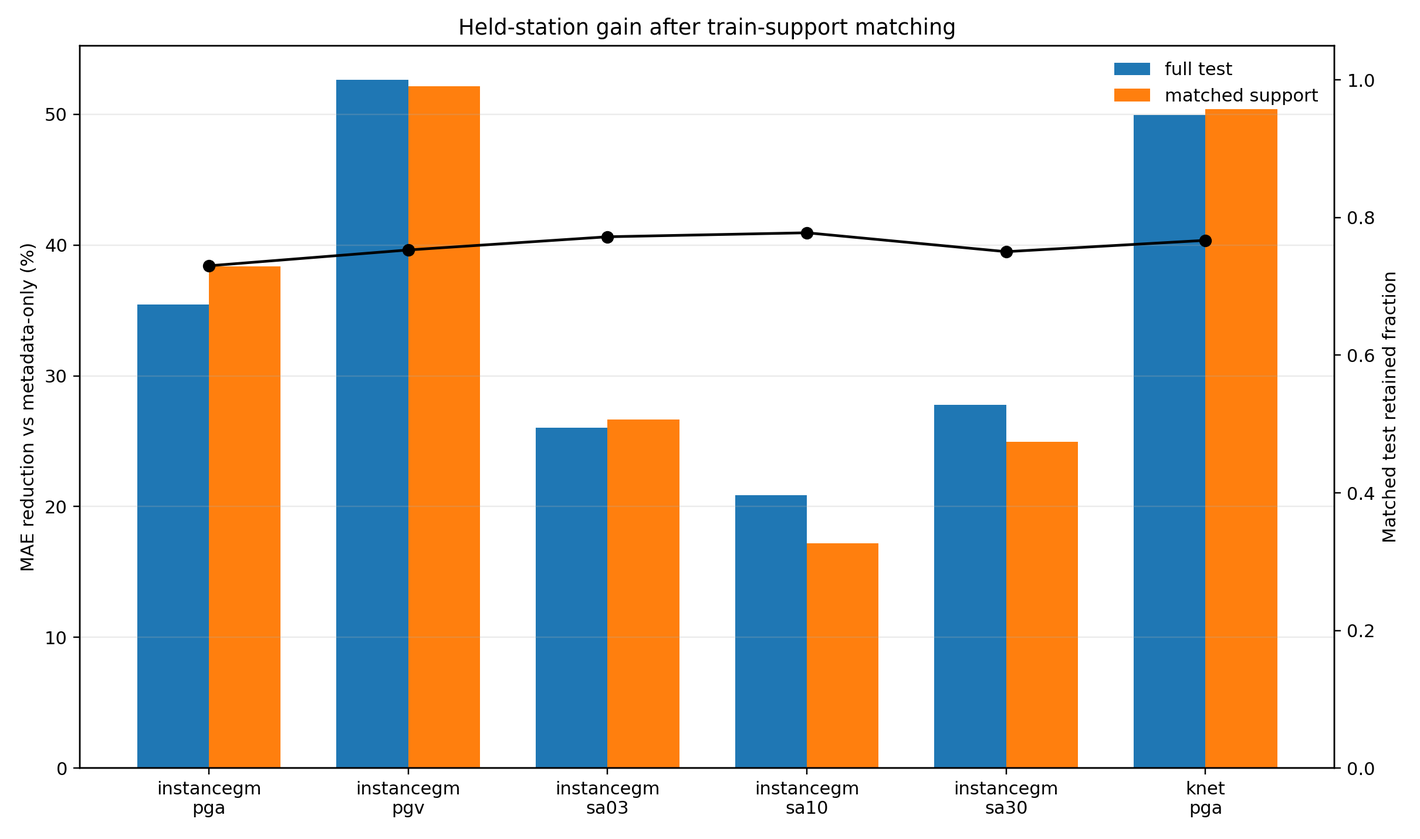
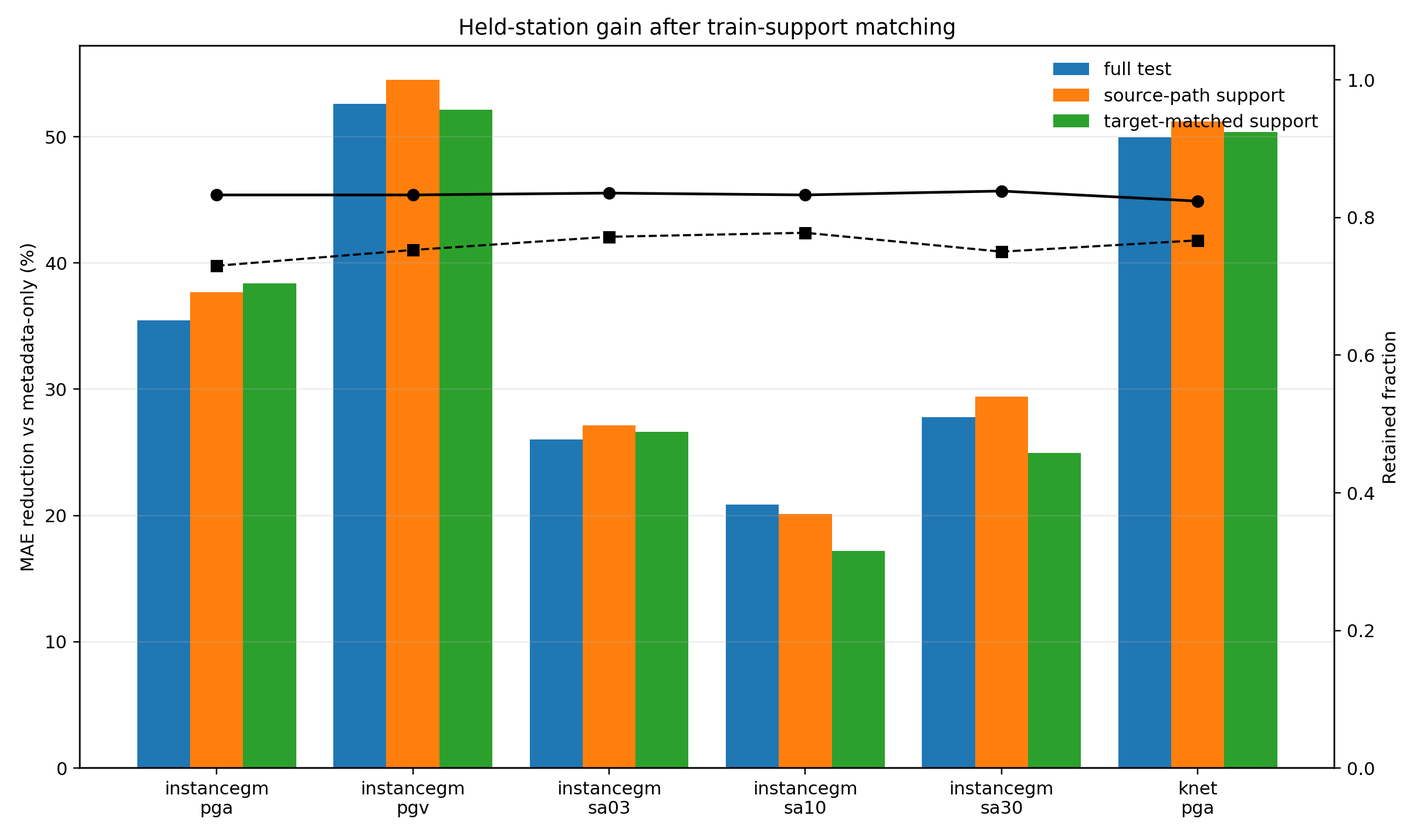
Add source-path support audit

diff --git a/work/scripts/audit_matched_station_gain.py b/work/scripts/audit_matched_station_gain.py
@@ -35,8 +35,14 @@ def write_csv(path: Path, rows: list[dict[str, Any]]) -> None:
         writer.writerows(rows)
 
 
-def support_mask(train: pd.DataFrame, test: pd.DataFrame, target: str) -> tuple[pd.Series, dict[str, float]]:
-    cols = [c for c in MATCH_COLUMNS + [f"target_log10_{target}"] if c in train.columns and c in test.columns]
+def support_mask(
+    train: pd.DataFrame,
+    test: pd.DataFrame,
+    target: str,
+    include_target: bool,
+) -> tuple[pd.Series, dict[str, float]]:
+    cols = MATCH_COLUMNS + ([f"target_log10_{target}"] if include_target else [])
+    cols = [c for c in cols if c in train.columns and c in test.columns]
     mask = pd.Series(True, index=test.index)
     bounds: dict[str, float] = {}
     for col in cols:
@@ -71,12 +77,14 @@ def collect_rows(args: argparse.Namespace) -> list[dict[str, Any]]:
             target_col = f"target_log10_{target}"
             if target_col not in train.columns or train[target_col].notna().sum() == 0 or test[target_col].notna().sum() == 0:
                 continue
-            mask, bounds = support_mask(train, test, target)
+            path_mask, path_bounds = support_mask(train, test, target, include_target=False)
+            target_mask, target_bounds = support_mask(train, test, target, include_target=True)
             scopes = {
-                "full_test": test,
-                "matched_train_support": test.loc[mask].copy(),
+                "full_test": (test, {}),
+                "source_path_support": (test.loc[path_mask].copy(), path_bounds),
+                "matched_train_support": (test.loc[target_mask].copy(), target_bounds),
             }
-            for scope, scoped_test in scopes.items():
+            for scope, (scoped_test, bounds) in scopes.items():
                 for feature_set in FEATURE_SETS:
                     result = train_eval(
                         train,
@@ -121,9 +129,15 @@ def summary_rows(metrics: pd.DataFrame) -> pd.DataFrame:
 
 
 def write_markdown(summary: pd.DataFrame, path: Path, figure_path: Path, csv_path: Path) -> None:
+    path_support = summary[summary["scope"] == "source_path_support"].copy()
     matched = summary[summary["scope"] == "matched_train_support"].copy()
     full = summary[summary["scope"] == "full_test"].copy()
-    merged = matched.merge(
+    merged_path = path_support.merge(
+        full[["dataset", "target", "mae_reduction_pct"]].rename(columns={"mae_reduction_pct": "full_reduction_pct"}),
+        on=["dataset", "target"],
+        how="left",
+    )
+    merged_matched = matched.merge(
         full[["dataset", "target", "mae_reduction_pct"]].rename(columns={"mae_reduction_pct": "full_reduction_pct"}),
         on=["dataset", "target"],
         how="left",
@@ -135,29 +149,45 @@ def write_markdown(summary: pd.DataFrame, path: Path, figure_path: Path, csv_pat
         "",
         "## 定位",
         "",
-        "这个自动审计只回答一个问题：把 held-station 测试样本裁到训练集震级、距离和目标幅值的 5-95% 覆盖范围内以后，早窗波形增益是否仍然存在。",
+        "这个自动审计回答两个问题：只把 held-station 测试样本裁到训练集震级和距离的 5-95% 覆盖范围内以后，早窗波形增益是否仍然存在；再加入目标幅值裁剪以后结果是否一致。",
         "",
-        "裁剪使用目标幅值，因此它是事后分布伪影审计，不是可部署预警模型评估。",
+        "`source_path_support` 不使用目标幅值。`matched_train_support` 使用目标幅值，因此后者是事后分布伪影审计，不是可部署预警模型评估。",
         "",
-        "## 结果",
+        "## Source-path support 结果",
         "",
-        "| 数据集 | 目标 | matched 保留比例 | full reduction % | matched reduction % | matched rows |",
+        "| 数据集 | 目标 | 保留比例 | full reduction % | source-path reduction % | rows |",
         "|---|---|---:|---:|---:|---:|",
     ]
-    for row in merged.to_dict("records"):
+    for row in merged_path.to_dict("records"):
         lines.append(
             f"| {row['dataset']} | {row['target']} | {row['retained_fraction']:.3f} | "
             f"{row['full_reduction_pct']:.1f} | {row['mae_reduction_pct']:.1f} | {int(row['test_rows_scope'])} |"
         )
+    lines += [
+        "",
+        "## Target-matched 结果",
+        "",
+        "| 数据集 | 目标 | 保留比例 | full reduction % | target-matched reduction % | rows |",
+        "|---|---|---:|---:|---:|---:|",
+    ]
+    for row in merged_matched.to_dict("records"):
+        lines.append(
+            f"| {row['dataset']} | {row['target']} | {row['retained_fraction']:.3f} | "
+            f"{row['full_reduction_pct']:.1f} | {row['mae_reduction_pct']:.1f} | {int(row['test_rows_scope'])} |"
+        )
+    path_min_gain = float(path_support["mae_reduction_pct"].min())
+    path_min_retained = float(path_support["retained_fraction"].min())
     min_gain = float(matched["mae_reduction_pct"].min())
     min_retained = float(matched["retained_fraction"].min())
     lines += [
         "",
         "## 解释",
         "",
-        f"所有 matched 子集仍为正增益，最小 matched MAE 降幅为 {min_gain:.1f}%。最小保留比例为 {min_retained:.3f}。",
+        f"只按震级和距离裁剪时，所有子集仍为正增益，最小 MAE 降幅为 {path_min_gain:.1f}%。最小保留比例为 {path_min_retained:.3f}。",
         "",
-        "这个结果降低了“增益只来自 held-station 测试集分布异常”的风险。正文仍应保守表述为 source-path-target shift 下的稳健性证据，不能写成完全 distribution-matched transfer。",
+        f"加入目标幅值裁剪后，所有 matched 子集仍为正增益，最小 matched MAE 降幅为 {min_gain:.1f}%。最小保留比例为 {min_retained:.3f}。",
+        "",
+        "这个结果降低了“增益只来自 held-station 测试集分布异常”的风险。正文仍应保守表述为 source-path shift 下的稳健性证据，不能写成完全 distribution-matched transfer。",
         "",
         f"CSV：`{csv_path}`",
         f"图：`{figure_path}`",
@@ -169,14 +199,16 @@ def write_markdown(summary: pd.DataFrame, path: Path, figure_path: Path, csv_pat
 
 def plot_summary(summary: pd.DataFrame, path: Path) -> None:
     full = summary[summary["scope"] == "full_test"].set_index(["dataset", "target"])
+    path_support = summary[summary["scope"] == "source_path_support"].set_index(["dataset", "target"])
     matched = summary[summary["scope"] == "matched_train_support"].set_index(["dataset", "target"])
     keys = list(matched.index)
     labels = [f"{ds}\n{target}" for ds, target in keys]
     x = np.arange(len(keys))
-    width = 0.36
+    width = 0.27
     fig, ax1 = plt.subplots(figsize=(11, 6.5))
-    ax1.bar(x - width / 2, [full.loc[k, "mae_reduction_pct"] for k in keys], width, label="full test")
-    ax1.bar(x + width / 2, [matched.loc[k, "mae_reduction_pct"] for k in keys], width, label="matched support")
+    ax1.bar(x - width, [full.loc[k, "mae_reduction_pct"] for k in keys], width, label="full test")
+    ax1.bar(x, [path_support.loc[k, "mae_reduction_pct"] for k in keys], width, label="source-path support")
+    ax1.bar(x + width, [matched.loc[k, "mae_reduction_pct"] for k in keys], width, label="target-matched support")
     ax1.axhline(0, color="black", linewidth=0.8)
     ax1.set_ylabel("MAE reduction vs metadata-only (%)")
     ax1.set_xticks(x)
@@ -186,8 +218,9 @@ def plot_summary(summary: pd.DataFrame, path: Path) -> None:
     ax1.legend(loc="upper right", frameon=False)
 
     ax2 = ax1.twinx()
-    ax2.plot(x, [matched.loc[k, "retained_fraction"] for k in keys], color="black", marker="o", linewidth=1.5)
-    ax2.set_ylabel("Matched test retained fraction")
+    ax2.plot(x, [path_support.loc[k, "retained_fraction"] for k in keys], color="black", marker="o", linewidth=1.5)
+    ax2.plot(x, [matched.loc[k, "retained_fraction"] for k in keys], color="black", marker="s", linewidth=1.2, linestyle="--")
+    ax2.set_ylabel("Retained fraction")
     ax2.set_ylim(0, 1.05)
     fig.tight_layout()
     path.parent.mkdir(parents=True, exist_ok=True)

diff --git a/work/scripts/verify_nc_evidence_package.py b/work/scripts/verify_nc_evidence_package.py
@@ -116,6 +116,7 @@ def main() -> None:
         "group leakage",
         "distribution artifacts",
         "matched-support audit",
+        "source-path support",
         "sampling stability",
         "attenuation-shaped",
         "fully specified regional GMM",
@@ -296,7 +297,11 @@ def main() -> None:
     matched_im = Image.open(matched_figure)
     check(matched_im.width >= 1000 and matched_im.height >= 700, f"matched held-station gain audit figure opens ({matched_im.width}x{matched_im.height})", rows)
     matched = pd.read_csv(matched_compact_path)
+    source_path_scope = matched[matched["scope"] == "source_path_support"]
     matched_scope = matched[matched["scope"] == "matched_train_support"]
+    check(len(source_path_scope) == 6, "matched held-station gain audit has 6 source-path support target rows", rows)
+    check(source_path_scope["retained_fraction"].min() >= 0.80, "source-path support audit retains at least 80% of test rows for every target", rows)
+    check((source_path_scope["mae_reduction_pct"] > 0).all(), "source-path support audit keeps positive early-waveform gains for every target", rows)
     check(len(matched_scope) == 6, "matched held-station gain audit has 6 matched target rows", rows)
     check(matched_scope["retained_fraction"].min() >= 0.70, "matched held-station gain audit retains at least 70% of test rows for every target", rows)
     check((matched_scope["mae_reduction_pct"] > 0).all(), "matched held-station gain audit keeps positive early-waveform gains for every target", rows)

diff --git a/outputs/methods_provenance_table.md b/outputs/methods_provenance_table.md
@@ -15,7 +15,7 @@ This table records the reproducibility contract for the current NC evidence pack
 | Held-out evaluation | `work/scripts/run_ground_motion_heldout_baseline.py`; `work/scripts/plot_heldout_generalization_figure.py` | `work/ground_motion_heldout_10s`; `work/ground_motion_balanced_station_10s` | `outputs/figures/figure3_heldout_generalization.png`; `outputs/figure3_heldout_generalization.csv` | Held-event and held-station groups have zero train/test overlap; balanced held-station holds 50 stations per strong-motion dataset |
 | Held-station window scan | `work/scripts/run_ground_motion_heldout_baseline.py`; `work/scripts/summarize_held_station_window_scan.py` | `work/ground_motion_balanced_station_1s`; `work/ground_motion_balanced_station_2s`; `work/ground_motion_balanced_station_3s`; `work/ground_motion_balanced_station_5s`; `work/ground_motion_balanced_station_10s` | `outputs/held_station_window_scan_summary.md`; `outputs/figures/ground_motion_audit/held_station_window_scan.png`; `work/held_station_window_scan.csv` | Balanced held-station 1/2/3/5/10 s scan; current feature groups are metadata-only, early-waveform-only, and metadata plus early waveform |
 | Distribution audit | `work/ground_motion_balanced_station_10s/balanced_station_distribution_audit.csv` | Balanced held-station train/test feature tables | `outputs/figures/ground_motion_audit/balanced_station_distribution_audit_panel.png`; `outputs/balanced_station_distribution_audit_summary.md` | InstanceGM station-held test is farther and weaker; K-NET distance and PGA overlap are high |
-| Matched held-station gain audit | `work/scripts/audit_matched_station_gain.py` | Balanced held-station train/test feature tables | `work/ground_motion_balanced_station_10s/matched_station_gain_audit.csv`; `outputs/matched_station_gain_audit_summary.md`; `outputs/figures/ground_motion_audit/matched_station_gain_audit.png` | Post-hoc support-matching audit trims test rows to train 5-95% ranges for magnitude, distance, and target amplitude; all matched subsets retain positive early-waveform gains; audit only, not deployable model evaluation |
+| Matched held-station gain audit | `work/scripts/audit_matched_station_gain.py` | Balanced held-station train/test feature tables | `work/ground_motion_balanced_station_10s/matched_station_gain_audit.csv`; `outputs/matched_station_gain_audit_summary.md`; `outputs/figures/ground_motion_audit/matched_station_gain_audit.png` | Source-path support trims test rows to train 5-95% ranges for magnitude and distance only; target-matched support adds target amplitude as a post-hoc audit; all retained subsets keep positive early-waveform gains |
 | Held-station bootstrap CI audit | `work/scripts/audit_held_station_bootstrap_ci.py` | Balanced held-station train/test feature tables | `work/ground_motion_balanced_station_10s/held_station_bootstrap_ci.csv`; `outputs/held_station_bootstrap_ci_summary.md`; `outputs/figures/ground_motion_audit/held_station_bootstrap_ci.png` | Paired bootstrap over held-station test records quantifies sampling stability of metadata-only versus metadata plus early-waveform MAE reductions; audit only, not prospective validation |
 | Attenuation-shaped reference | `work/scripts/run_attenuation_reference.py` | Balanced held-station feature tables | `work/ground_motion_balanced_station_10s/attenuation_reference.csv`; `outputs/attenuation_reference_summary.md` | Ridge model with magnitude, log10 hypocentral-distance shape, depth, and log10 Vs30 where available; K-NET has no Vs30 in this split; baseline check only |
 | Regional GMM readiness audit | `work/scripts/audit_regional_gmm_readiness.py` | Balanced held-station features; InstanceGM SeisBench metadata; K-NET approved local package | `outputs/regional_gmm_readiness_audit.csv`; `outputs/regional_gmm_readiness_audit.md` | InstanceGM has complete Vs30 but sparse mechanism coverage; K-NET lacks Vs30, rupture distance, and focal-mechanism fields in current approved data |

diff --git a/outputs/nc_evidence_packet_zh.md b/outputs/nc_evidence_packet_zh.md
@@ -100,18 +100,18 @@ K-NET pre-peak 子集审计已生成：`outputs/knet_prepeak_subset_audit.md`。
 
 ### 3c. Matched held-station 增益审计
 
-已补一个全自动事后审计：`outputs/matched_station_gain_audit_summary.md`。它把 held-station 测试样本裁到训练集震级、距离和目标幅值的 5-95% 覆盖范围内，再重新评估 metadata-only 与 metadata + 早窗波形。
+已补一个全自动支持范围审计：`outputs/matched_station_gain_audit_summary.md`。它先把 held-station 测试样本裁到训练集震级和距离的 5-95% 覆盖范围内，不使用目标幅值；然后再做一个加入目标幅值的 target-matched 事后检查。
 
-| 数据集 | 目标 | matched 保留比例 | full 降幅 | matched 降幅 |
-|---|---|---:|---:|---:|
-| InstanceGM | PGA | 0.730 | 35.5% | 38.4% |
-| InstanceGM | PGV | 0.753 | 52.6% | 52.1% |
-| InstanceGM | SA03 | 0.772 | 26.0% | 26.6% |
-| InstanceGM | SA10 | 0.778 | 20.9% | 17.2% |
-| InstanceGM | SA30 | 0.751 | 27.8% | 24.9% |
-| K-NET | PGA | 0.767 | 49.9% | 50.4% |
+| 数据集 | 目标 | source-path 保留比例 | full 降幅 | source-path 降幅 | target-matched 降幅 |
+|---|---|---:|---:|---:|---:|
+| InstanceGM | PGA | 0.833 | 35.5% | 37.7% | 38.4% |
+| InstanceGM | PGV | 0.833 | 52.6% | 54.5% | 52.1% |
+| InstanceGM | SA03 | 0.836 | 26.0% | 27.2% | 26.6% |
+| InstanceGM | SA10 | 0.833 | 20.9% | 20.1% | 17.2% |
+| InstanceGM | SA30 | 0.839 | 27.8% | 29.4% | 24.9% |
+| K-NET | PGA | 0.824 | 49.9% | 51.2% | 50.4% |
 
-解释：所有 matched 子集仍为正增益，最小 matched 降幅为 17.2%。这个结果降低了“增益只来自 held-station 测试集分布异常”的风险。因为裁剪使用目标幅值，它只能作为分布伪影审计，不能当成可部署预警模型评估。
+解释：只按震级和距离裁剪时，所有子集仍为正增益，最小降幅为 20.1%，最小保留比例为 0.824。加入目标幅值裁剪后仍全部为正，但它只能作为分布伪影审计，不能当成可部署预警模型评估。
 
 支撑图：`outputs/figures/ground_motion_audit/matched_station_gain_audit.png`
 CSV：`work/ground_motion_balanced_station_10s/matched_station_gain_audit.csv`
@@ -468,7 +468,7 @@ ESM held-out baseline：`outputs/esm_heldout_baseline_summary.md`。
 
 如果加入完整区域 GMM 对照或更强物理残差解释：**73-78%**。
 
-现在可以诚实说站上 70%。原因是 ESM 提供了欧洲强震动外部测试域，四域 transfer 给出清晰退化边界，ESM P-onset sensitivity 和 waveform-onset spot audit 已经把主要相位风险量化，matched held-station 审计降低了分布伪影解释，bootstrap CI 审计降低了抽样偶然性解释。限制仍然明确：ESM 还不是人工 P pick，当前还没有完整区域 GMM 对照。
+现在可以诚实说站上 70%。原因是 ESM 提供了欧洲强震动外部测试域，四域 transfer 给出清晰退化边界，ESM P-onset sensitivity 和 waveform-onset spot audit 已经把主要相位风险量化，source-path support 审计降低了分布伪影解释，bootstrap CI 审计降低了抽样偶然性解释。限制仍然明确：ESM 还不是人工 P pick，当前还没有完整区域 GMM 对照。
 
 ## 下一步
 

diff --git a/outputs/nc_reviewer_risk_matrix.md b/outputs/nc_reviewer_risk_matrix.md
@@ -8,7 +8,7 @@ This matrix maps likely reviewer objections to current evidence and claim limits
 |---|---|---|---|
 | The 10 s window may already contain target-scale shaking. | `outputs/early_window_peak_capture_audit.md`; `outputs/knet_prepeak_subset_audit.md` | Present 10 s as early strong-motion information; use 1 s, 3 s, and K-NET pre-peak subsets for lead-time-sensitive wording. | Do not write 10 s K-NET as strict lead-time evidence. |
 | Random splits or group leakage may drive the gain. | `outputs/figure3_heldout_generalization.csv`; verifier checks zero event/station group overlap. | Lead with held-event and balanced held-station results after random-split results. | Do not rely on random split alone. |
-| Station-held tests may be distribution artifacts. | `outputs/balanced_station_distribution_audit_summary.md`; `outputs/matched_station_gain_audit_summary.md`; Figure 3 distribution panel. | Report InstanceGM station-held shift toward farther and weaker records; report K-NET distance/PGA overlap; state that matched-support subsets retain positive gains. | Do not call the station split distribution-matched; the matched-support audit uses target amplitude and is post-hoc. |
+| Station-held tests may be distribution artifacts. | `outputs/balanced_station_distribution_audit_summary.md`; `outputs/matched_station_gain_audit_summary.md`; Figure 3 distribution panel. | Report InstanceGM station-held shift toward farther and weaker records; report K-NET distance/PGA overlap; state that source-path support and matched-support audit subsets retain positive gains. | Do not call the station split distribution-matched; target-matched support uses target amplitude and is post-hoc. |
 | Held-station gains may be sampling noise. | `outputs/held_station_bootstrap_ci_summary.md`; `work/ground_motion_balanced_station_10s/held_station_bootstrap_ci.csv`. | Report paired bootstrap 95% CIs for the six main balanced held-station targets; all lower bounds remain positive, showing sampling stability. | Do not treat this as prospective validation or causal proof. |
 | The model only beats a flexible metadata baseline. | `outputs/attenuation_reference_summary.md`; `outputs/figure4_classical_uncertainty.csv`. | State that the early waveform model beats metadata HGB, attenuation-shaped ridge, and bias-corrected BooreEtAl2014. | Do not treat the attenuation reference as a full regional GMM. |
 | K-NET reference comparison may be underspecified. | `outputs/knet_japan_gmm_reference_summary.md`; `work/ground_motion_balanced_station_10s/knet_japan_gmm_reference.csv`; `outputs/regional_gmm_readiness_audit.md`. | Use Kanno2006/Zhao2006/SiMidorikawa1999 as Japanese GMM screening and report the missing-field audit. | Do not claim full superiority over a fully specified regional GMM. |

diff --git a/outputs/nc_minimum_submission_package.md b/outputs/nc_minimum_submission_package.md
@@ -24,7 +24,7 @@ Public strong-motion archives can be organized into a reproducible benchmark for
 | Held-event | done | rules out ordinary event leakage |
 | Balanced held-station | done | station-transfer evidence across 50 held-out stations per strong-motion dataset |
 | Held-station 1/2/3/5/10 scan | done | direct information-gain curve for the first 5 seconds and the 10 s reference |
-| Matched held-station gain audit | done | post-hoc train-support matching shows positive early-waveform gains are not only a station-test distribution artifact |
+| Matched held-station gain audit | done | source-path support matching shows positive early-waveform gains are not only a station-test distribution artifact |
 | Held-station bootstrap CI audit | done | paired bootstrap shows balanced held-station gains are stable to test-record resampling |
 | Classical references | done | attenuation-shaped ridge, BooreEtAl2014, and K-NET Japanese GMM screening |
 | Regional GMM readiness | done | field audit explains why full regional GMM claim is not yet supported |
@@ -149,7 +149,7 @@ Message:
 
 Held-event and balanced held-station tests show that the early waveform gain persists after event and station separation. The distribution audit shows that the station-held tests still contain source-path-target shift, so the result should be framed as held-out robustness with explicit split provenance.
 
-The matched held-station gain audit trims test records to train 5-95% support for magnitude, distance, and target amplitude. Matched subsets retain 73.0-77.8% of test records and remain positive for every target, with the weakest matched reduction at 17.2% for InstanceGM SA10. This is a post-hoc distribution-artifact audit because it uses target amplitude for matching.
+The matched held-station gain audit first trims test records to train 5-95% support for magnitude and distance only. These source-path support subsets retain 82.4-83.9% of test records and remain positive for every target, with the weakest reduction at 20.1% for InstanceGM SA10. A stricter target-matched support check also remains positive, with the weakest reduction at 17.2%. The target-matched check is post-hoc because it uses target amplitude.
 
 The paired bootstrap audit uses the same balanced held-station test rows and resamples records to quantify MAE-reduction stability. All six main targets keep positive 95% CI lower bounds; the weakest lower bound is 16.9% for InstanceGM SA10. Current files: `outputs/held_station_bootstrap_ci_summary.md` and `work/ground_motion_balanced_station_10s/held_station_bootstrap_ci.csv`.
 

diff --git a/outputs/matched_station_gain_audit_summary.md b/outputs/matched_station_gain_audit_summary.md
@@ -4,13 +4,24 @@
 
 ## 定位
 
-这个自动审计只回答一个问题：把 held-station 测试样本裁到训练集震级、距离和目标幅值的 5-95% 覆盖范围内以后，早窗波形增益是否仍然存在。
+这个自动审计回答两个问题：只把 held-station 测试样本裁到训练集震级和距离的 5-95% 覆盖范围内以后，早窗波形增益是否仍然存在；再加入目标幅值裁剪以后结果是否一致。
 
-裁剪使用目标幅值，因此它是事后分布伪影审计，不是可部署预警模型评估。
+`source_path_support` 不使用目标幅值。`matched_train_support` 使用目标幅值，因此后者是事后分布伪影审计，不是可部署预警模型评估。
 
-## 结果
+## Source-path support 结果
 
-| 数据集 | 目标 | matched 保留比例 | full reduction % | matched reduction % | matched rows |
+| 数据集 | 目标 | 保留比例 | full reduction % | source-path reduction % | rows |
+|---|---|---:|---:|---:|---:|
+| instancegm | pga | 0.833 | 35.5 | 37.7 | 833 |
+| instancegm | pgv | 0.833 | 52.6 | 54.5 | 833 |
+| instancegm | sa03 | 0.836 | 26.0 | 27.2 | 829 |
+| instancegm | sa10 | 0.833 | 20.9 | 20.1 | 833 |
+| instancegm | sa30 | 0.839 | 27.8 | 29.4 | 790 |
+| knet | pga | 0.824 | 49.9 | 51.2 | 824 |
+
+## Target-matched 结果
+
+| 数据集 | 目标 | 保留比例 | full reduction % | target-matched reduction % | rows |
 |---|---|---:|---:|---:|---:|
 | instancegm | pga | 0.730 | 35.5 | 38.4 | 730 |
 | instancegm | pgv | 0.753 | 52.6 | 52.1 | 753 |
@@ -21,9 +32,11 @@
 
 ## 解释
 
-所有 matched 子集仍为正增益，最小 matched MAE 降幅为 17.2%。最小保留比例为 0.730。
+只按震级和距离裁剪时，所有子集仍为正增益，最小 MAE 降幅为 20.1%。最小保留比例为 0.824。
 
-这个结果降低了“增益只来自 held-station 测试集分布异常”的风险。正文仍应保守表述为 source-path-target shift 下的稳健性证据，不能写成完全 distribution-matched transfer。
+加入目标幅值裁剪后，所有 matched 子集仍为正增益，最小 matched MAE 降幅为 17.2%。最小保留比例为 0.730。
+
+这个结果降低了“增益只来自 held-station 测试集分布异常”的风险。正文仍应保守表述为 source-path shift 下的稳健性证据，不能写成完全 distribution-matched transfer。
 
 CSV：`work/ground_motion_balanced_station_10s/matched_station_gain_audit.csv`
 图：`outputs/figures/ground_motion_audit/matched_station_gain_audit.png`

diff --git a/outputs/manuscript_scaffold_cross_dataset_early_window_residual_audit.md b/outputs/manuscript_scaffold_cross_dataset_early_window_residual_audit.md
@@ -52,7 +52,7 @@ Balanced held-station evaluation excludes selected stations during training and 
 
 The split distribution audit shows that the held-station tests retain real shift. InstanceGM test records are farther and weaker than the training records: median distance increases from 44.27 km to 70.61 km, and median log10 PGA decreases from -1.68 to -2.11. K-NET train and test distributions overlap closely for distance and PGA, with overlap above 0.91. The station-held results should be framed as robust under source-path-target shift. Avoid distribution-matched transfer wording.
 
-The matched held-station gain audit trims test records to the training set 5-95% support for magnitude, distance, and target amplitude. This audit retains 73.0-77.8% of held-station test records and keeps every target positive, with matched MAE reductions from 17.2% to 52.1%. It is a post-hoc distribution-artifact audit, because target amplitude is part of the trimming rule.
+The matched held-station gain audit first trims test records to the training set 5-95% support for magnitude and distance only. This source-path support audit retains 82.4-83.9% of held-station test records and keeps every target positive, with MAE reductions from 20.1% to 54.5%. A stricter target-matched support check also remains positive, with reductions from 17.2% to 52.1%. The target-matched check is post-hoc because target amplitude is part of the trimming rule.
 
 A paired bootstrap audit resamples the balanced held-station test rows and recomputes the metadata-only versus metadata plus early-waveform MAE reduction. The 95% CI lower bounds remain positive for all six main targets, with the weakest lower bound at 16.9% for InstanceGM SA10. Current files: `outputs/held_station_bootstrap_ci_summary.md`, `outputs/figures/ground_motion_audit/held_station_bootstrap_ci.png`, and `work/ground_motion_balanced_station_10s/held_station_bootstrap_ci.csv`. This supports sampling stability, not prospective validation.
 

diff --git a/outputs/nc_article_draft_v1.md b/outputs/nc_article_draft_v1.md
@@ -38,7 +38,7 @@ Balanced held-station splits exclude selected stations from training and hold ou
 
 The held-station split contains real distribution shift. InstanceGM test records are farther and weaker than the training records: median distance increases from 44.27 km to 70.61 km, and median log10 PGA decreases from -1.68 to -2.11. K-NET train and test distributions overlap more closely for distance and PGA. The split audit supports a measured generalization claim, not a distribution-matched transfer claim.
 
-A matched-support audit trims held-station test records to the training set 5-95% support for magnitude, distance, and target amplitude. The retained subsets keep 73.0-77.8% of test records. All targets remain positive, with matched MAE reductions from 17.2% to 52.1%. This audit reduces the risk that the observed gain is only a station-test distribution artifact, but it remains a post-hoc audit because target amplitude is part of the trimming rule.
+A matched-support audit first trims held-station test records to the training set 5-95% support for magnitude and distance only. The source-path support subsets keep 82.4-83.9% of test records. All targets remain positive, with MAE reductions from 20.1% to 54.5%. A stricter target-matched support check also remains positive, with reductions from 17.2% to 52.1%; this check is post-hoc because target amplitude is part of the trimming rule.
 
 A paired bootstrap audit resamples the same balanced held-station test records. The 95% bootstrap CI lower bounds remain positive for all six main targets, with the weakest lower bound at 16.9% for InstanceGM SA10. This supports sampling stability of the observed gain.
 

diff --git a/outputs/nc_evidence_verification_report.md b/outputs/nc_evidence_verification_report.md
@@ -55,6 +55,7 @@ This report verifies generated artifacts only. NC 60% remains an empirical targe
 - PASS: reviewer risk matrix covers: group leakage
 - PASS: reviewer risk matrix covers: distribution artifacts
 - PASS: reviewer risk matrix covers: matched-support audit
+- PASS: reviewer risk matrix covers: source-path support
 - PASS: reviewer risk matrix covers: sampling stability
 - PASS: reviewer risk matrix covers: attenuation-shaped
 - PASS: reviewer risk matrix covers: fully specified regional GMM
@@ -162,6 +163,9 @@ This report verifies generated artifacts only. NC 60% remains an empirical targe
 - PASS: matched held-station gain audit compact table exists
 - PASS: matched held-station gain audit figure exists
 - PASS: matched held-station gain audit figure opens (2420x1430)
+- PASS: matched held-station gain audit has 6 source-path support target rows
+- PASS: source-path support audit retains at least 80% of test rows for every target
+- PASS: source-path support audit keeps positive early-waveform gains for every target
 - PASS: matched held-station gain audit has 6 matched target rows
 - PASS: matched held-station gain audit retains at least 70% of test rows for every target
 - PASS: matched held-station gain audit keeps positive early-waveform gains for every target
